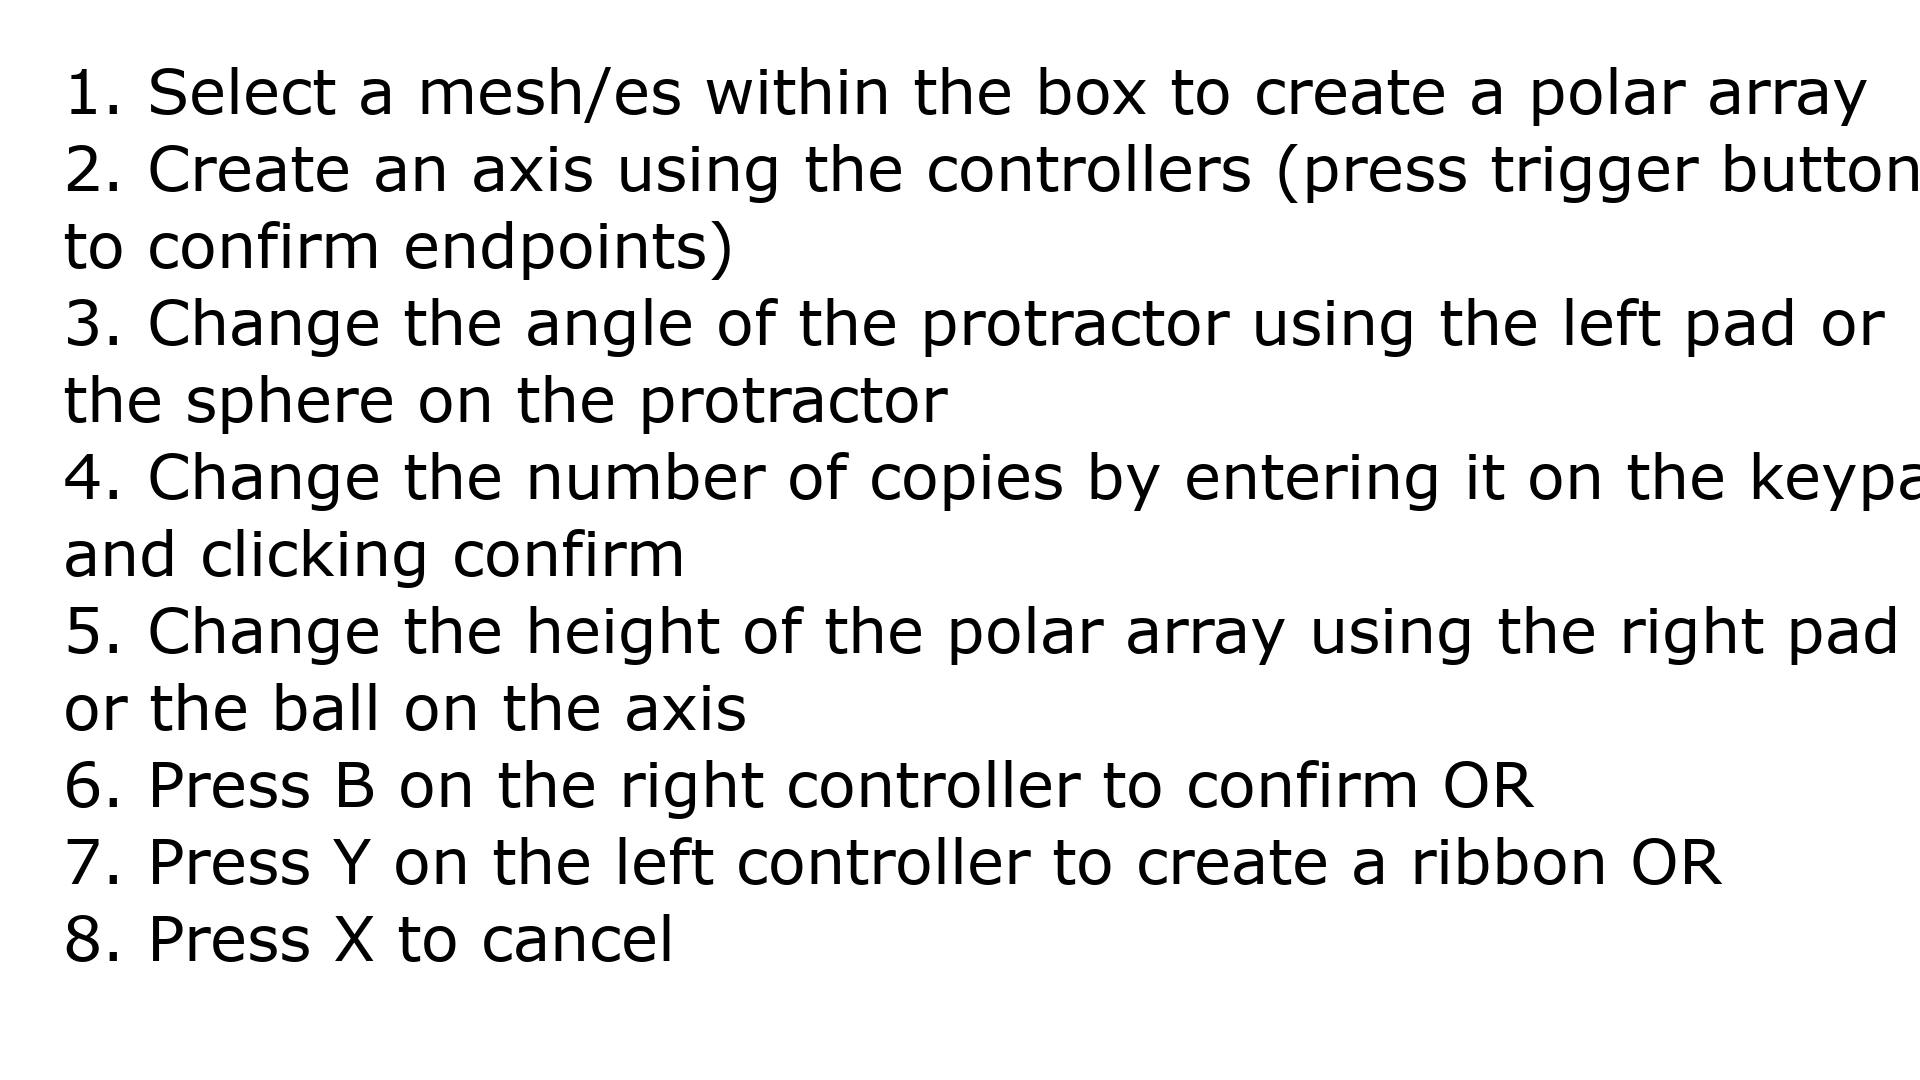
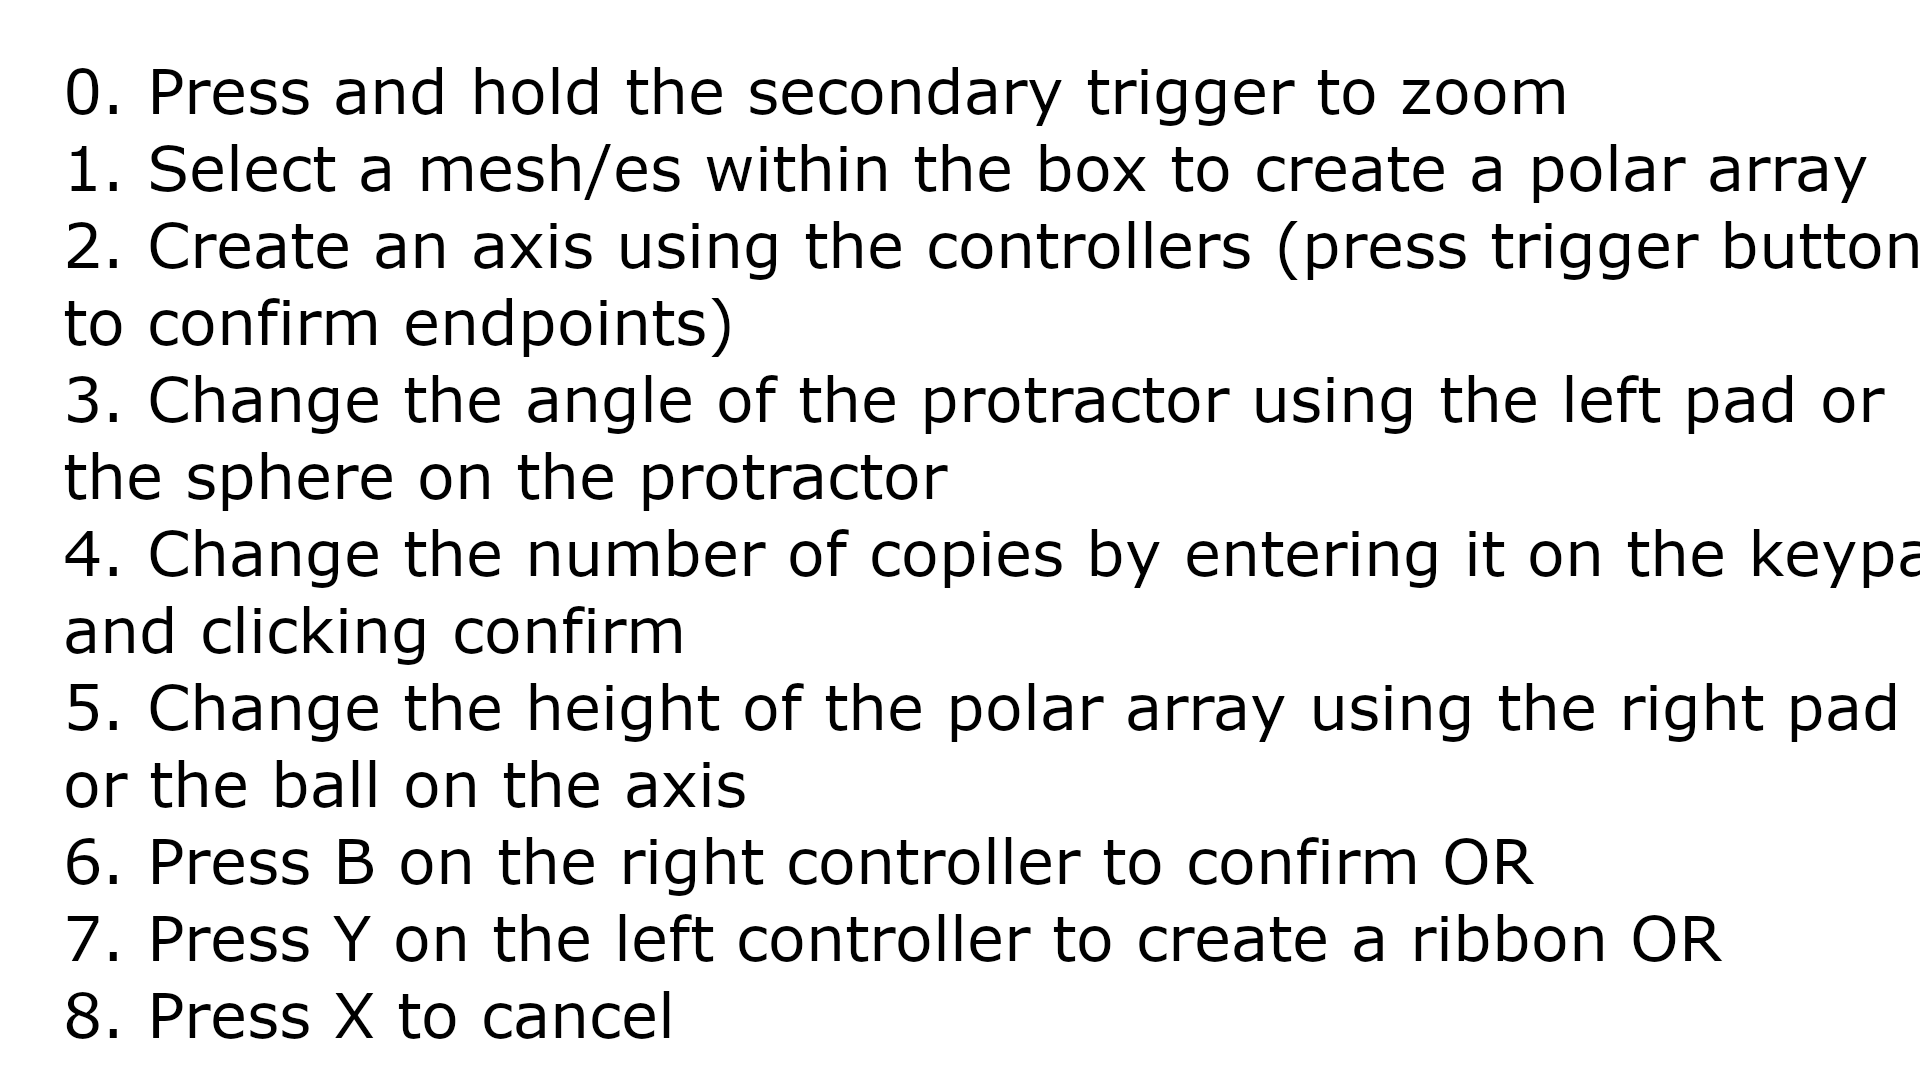
Z00m function using secondary trigger

diff --git a/src/vr-state.ts b/src/vr-state.ts
@@ -1,4 +1,5 @@
 import {WebVRController, WebVRFreeCamera, Camera, Vector3} from "@babylonjs/core";
+import { SceneState } from ".";
 export class VRState {
     valid = false;
     private _leftController!: WebVRController;
@@ -12,7 +13,7 @@ export class VRState {
     private btnStateL = false;
     private btnStateR = false;
     private static instance: VRState;
-    
+    private zoomTrigger = new SecondaryTriggerState();
     private constructor() {
 
     }
@@ -22,7 +23,6 @@ export class VRState {
             VRState.instance = new VRState();
         }
         return VRState.instance;
-        
     }
 
     saveState() {
@@ -42,7 +42,13 @@ export class VRState {
             } else if (this.lastStateL == false) {
                 this.eventValidL = true;
             }
-        })
+        });
+        left.onButtonStateChange((controlledIndex, index, state) => {
+            if (index == 2) {
+                this.secondaryTriggerL(state);
+            }
+        });
+        SceneState.getInstance().beforeRender.set("VRState", this.beforeRender.bind(this));
     }
 
     get leftController(): WebVRController {
@@ -60,10 +66,49 @@ export class VRState {
                 this.eventValidR = true;
             }
         })
+        right.onButtonStateChange((controlledIndex, index, state) => {
+            if (index == 2) {
+                this.secondaryTriggerR(state);
+            }
+        });
     }
 
     get rightController(): WebVRController {
         return this._rightController;
+    }
+
+    secondaryTriggerL(event: any) {
+        if (event.pressed) {
+            this.zoomTrigger.isSecondaryTriggerHeldL = true;
+            if (this.zoomTrigger.isSecondaryTriggerHeldR && !this.zoomTrigger.isZooming) {
+                this.zoomTrigger.isZooming = true;
+                this.zoomTrigger.zoomVector = this.leftController.devicePosition.subtract(this.rightController.devicePosition);
+            }
+        } else {
+            this.zoomTrigger.isSecondaryTriggerHeldL = false;
+            this.zoomTrigger.isZooming = false;
+        }
+    }
+    secondaryTriggerR(event: any) {
+        if (event.pressed) {
+            this.zoomTrigger.isSecondaryTriggerHeldR = true;
+            if (this.zoomTrigger.isSecondaryTriggerHeldL && !this.zoomTrigger.isZooming) {
+                this.zoomTrigger.isZooming = true;
+                this.zoomTrigger.zoomVector = this.leftController.devicePosition.subtract(this.rightController.devicePosition);
+            }
+        } else {
+            this.zoomTrigger.isZooming = false;
+            this.zoomTrigger.isSecondaryTriggerHeldR = false;
+        }
+    }
+
+    beforeRender() {
+        if (this.zoomTrigger.isZooming) {
+            const vec = this.leftController.devicePosition.subtract(this.rightController.devicePosition);
+            const zoom = vec.length() - this.zoomTrigger.zoomVector.length();
+            const ray = (this.camera as WebVRFreeCamera).getForwardRay(1);
+            (this.camera as WebVRFreeCamera).position.addInPlace(ray.direction.scale(zoom));   
+        }
     }
 
     isControllerTwisted() {
@@ -89,3 +134,10 @@ export class VRState {
         }
     }
 };
+
+class SecondaryTriggerState {
+    isSecondaryTriggerHeldL = false;
+    isSecondaryTriggerHeldR = false;
+    isZooming = false;
+    zoomVector = new Vector3();
+}
